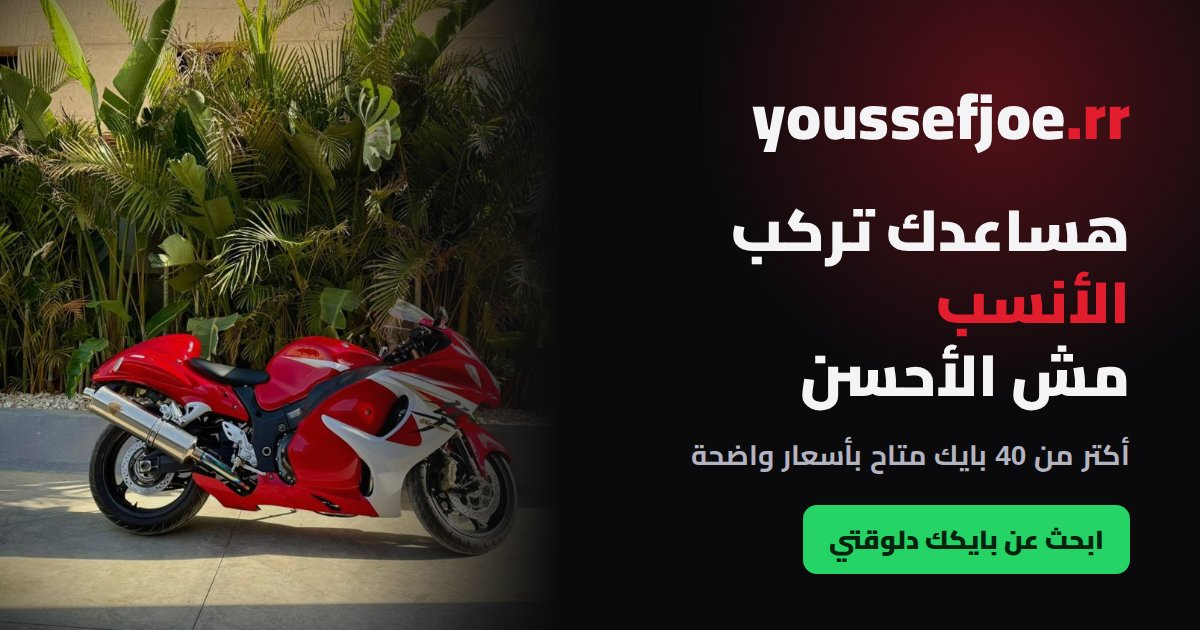
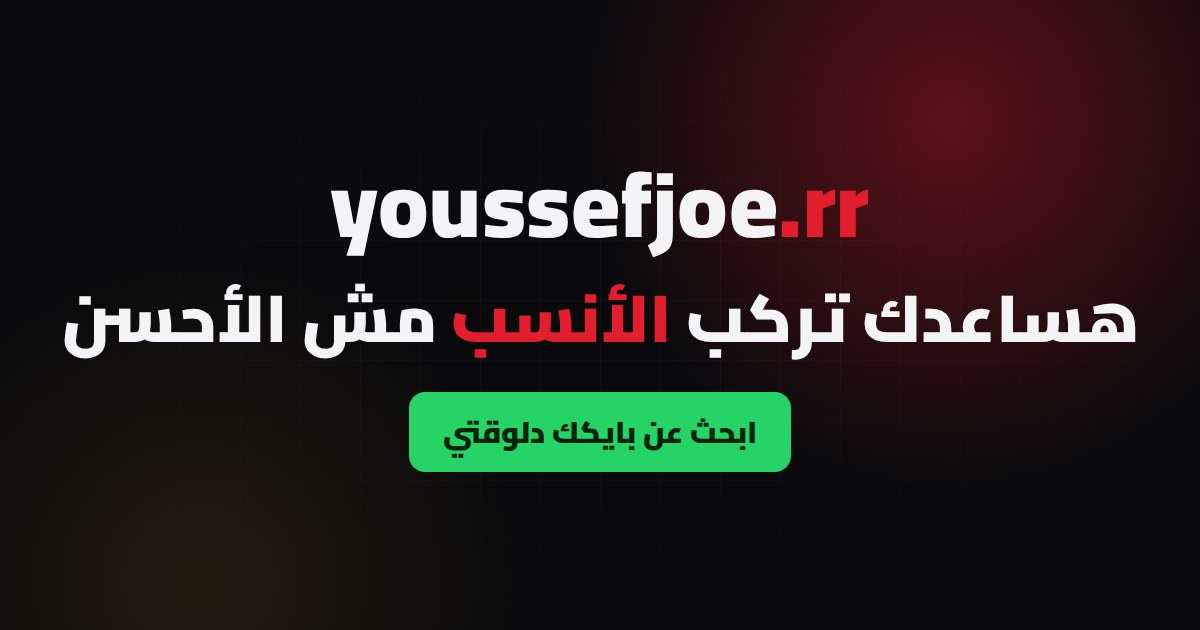
Simplify link-preview image to text only
Claude-Session: https://claude.ai/code/session_01Qp1idCnTMo9Sx3gB4ZHoab

diff --git a/youssefjoe-rr/index.html b/youssefjoe-rr/index.html
@@ -6,7 +6,7 @@
   <title>youssefjoe.rr | بايكات مستعملة مختارة</title>
   <meta name="description" content="youssefjoe.rr — هساعدك تركب الأنسب مش الأحسن. بايكات هوندا، كاواساكي، سوزوكي و BMW متفحوصة وبأسعار واضحة." />
   <meta property="og:title" content="youssefjoe.rr — هساعدك تركب الأنسب مش الأحسن" />
-  <meta property="og:description" content="اختار بايكك من أكتر من 40 موتوسيكل متاح — ابحث بالنوع، الموديل أو الميزانية." />
+  <meta property="og:description" content="ابحث عن بايكك بالنوع، الموديل أو الميزانية — وأنا أساعدك تختار الأنسب ليك." />
   <meta property="og:image" content="https://youssefjoe-rr.vercel.app/images/og.jpg" />
   <meta property="og:image:width" content="1200" />
   <meta property="og:image:height" content="630" />
